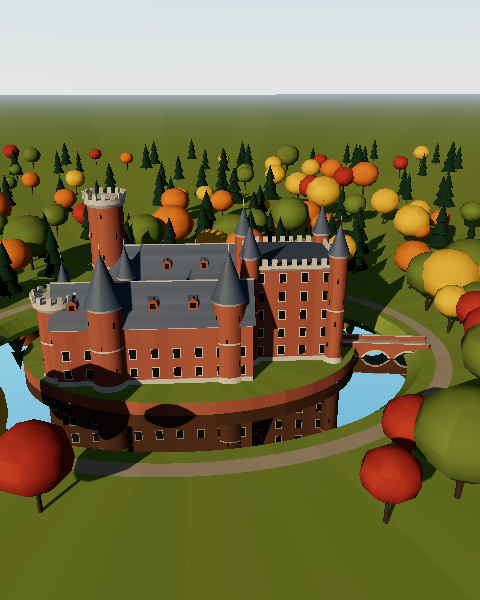
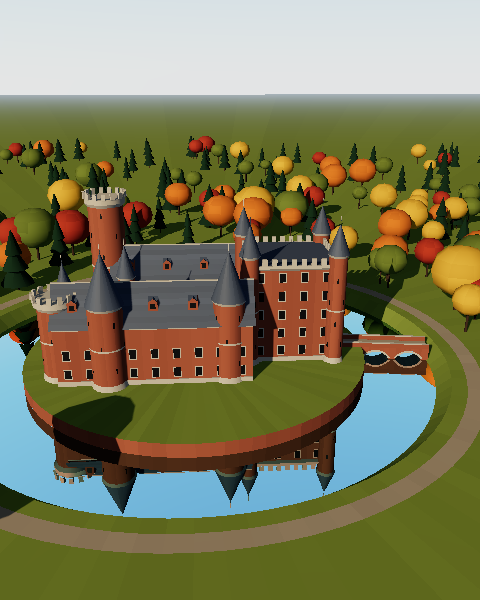
Use a round moat and the Uccle rain normals in the castle plan
Sources describe the medieval castle as round, with a circular moat
around a round inner courtyard. The oval in the aerial photograph is
foreshortening, so the Wijnendale moat is now a circle of 46 m with a
round island of 33 m, and the images are rendered again.

The monthly rain of the moat's water balance is now the 1991-2020 normal
of the station at Uccle from the Royal Meteorological Institute, 837 mm a
year. The open water evaporation and the stream stay assumptions and are
marked as such.

Castle.md gains a sources section. It lists the documented facts with
links and says that no source reachable in the search gave a tower
height, a wall length or a moat size.

Claude-Session: https://claude.ai/code/session_01QjVVquVTVmgGajftDb4J89

diff --git a/docs/wiki/Castle.md b/docs/wiki/Castle.md
@@ -29,6 +29,7 @@ The plan states which facts are documented and which numbers are estimated. No p
 | Item | Value | Status |
 |---|---|---|
 | Place | Torhout, West Flanders, Belgium | Documented |
+| Moat and courtyard | A circular moat around a round inner courtyard | Documented |
 | Coordinates | 51°04′44″ N, 3°03′34″ E | Documented |
 | First castle | About 1085, built by Robert I, Count of Flanders | Documented |
 | North wing | Parts date from the 15th century | Documented |
@@ -39,7 +40,19 @@ The plan states which facts are documented and which numbers are estimated. No p
 | Stone dressings, dormers and window rows | From the aerial photograph | Estimated |
 | Dimensions of every part | From the aerial photograph, good to about 15 percent | Estimated |
 | Wall thickness, bridge arch, moat depth | Typical values for the building type | Estimated |
-| Wind, climate, soil and masonry strength | Typical values from the Eurocodes and the Flemish lowland | Assumed |
+| Monthly rain | The 1991-2020 normals of Uccle, 837 mm a year | Measured, at a station about 90 km away |
+| Wind, evaporation, soil and masonry strength | Typical values from the Eurocodes and the Flemish lowland | Assumed |
+
+## Sources and what is missing
+
+The documented facts come from these pages:
+
+- [Flemish heritage inventory, Kasteeldomein van Wijnendale](https://inventaris.onroerenderfgoed.be/erfgoedobjecten/87491) gives the work of Félix Laureys in 1877 and 1878, and the gatehouse and keep.
+- [Wijnendale Castle on Wikipedia](https://en.wikipedia.org/wiki/Wijnendale_Castle) gives the coordinates and the history.
+- [Eupedia](https://eupedia.com/belgium/wynendale.shtml) and [RTBF](https://www.rtbf.be/article/le-chateau-de-wijnendale-la-ou-leopold-iii-a-lance-la-question-royale-11329444) describe a circular moat.
+- [Brussels Environment, climate fact sheet](https://document.environnement.brussels/opac_css/elecfile/Clim_02) gives the Uccle rain normals of the Royal Meteorological Institute.
+
+No source that I could reach gives the height of a tower, the length of a wall or the size of the moat. I searched in Dutch, French and English. I could read only search summaries of these pages, not the pages themselves. The protection decree refers to a plan that I could not open. A survey or that plan would replace the estimates.
 
 ## The plan frame
 
@@ -51,7 +64,7 @@ A `CastlePlan` holds:
 |---|---|---|
 | Towers | `Tower` | A round or square shaft with a cone or a battlemented parapet |
 | Blocks | `Block` | A rectangle of wall with a gable roof, or a gatehouse with a parapet |
-| Moat | `Moat` | An ellipse of water around an elliptical island |
+| Moat | `Moat` | An ellipse of water around an elliptical island. A circle has equal axes. |
 | Bridge | `Bridge` | A row of equal segmental masonry arches on piers |
 
 `plan.check()` refuses a part that cannot stand. It refuses a wall as thick as its radius and a gable with no rise. It refuses an island outside the moat and a tower off the island. It refuses an arch that rises more than half its span.
@@ -69,7 +82,7 @@ A `CastlePlan` holds:
 | Rear range | Block | 30 by 9 | 11 | Gable, rise 7 |
 | Front range | Block | 34 by 9 | 11 | Gable, rise 6.5 |
 | Gatehouse | Block | 16 by 16 | 19 | Parapet |
-| Moat | Ellipse | Outer axes 43 and 33, island axes 33 and 23 | Water depth 1.6 | |
+| Moat | Circle | Outer radius 46, island radius 33 | Water depth 1.6 | |
 | Bridge | Three arches | Span 5, pier 1.4, rise 1.4, ring 0.4 | Length 20.6 | |
 
 ## Draw a plan

diff --git a/docs/wiki/Castle-analysis.md b/docs/wiki/Castle-analysis.md
@@ -75,14 +75,14 @@ A plain wall needs more than three meters. A real wall of this height has a batt
 
 The weir is a sharp-crested rectangular weir, `Q = Cd (2/3) sqrt(2 g) b h^1.5`. It answers within hours. A daily step therefore passes the surplus of a day over the weir. A deficit lowers the level below the crest.
 
-`flanders_climate` holds monthly values typical of the Flemish lowland: 824 mm of rain and 608 mm of open water evaporation a year. They are assumptions. Replace them with data from a weather station.
+`flanders_climate` holds monthly values for the Flemish lowland. The rain is the 1991-2020 normal of the station at Uccle from the Royal Meteorological Institute: 837 mm a year. The evaporation, 608 mm a year, and the stream flow are assumptions. Replace them with data from the site.
 
-| Result for a moat of 2,073 m2 | Value |
+| Result for a moat of 3,226 m2 | Value |
 |---|---|
 | Normal year | The level stays at the crest. 147,000 m3 go over the weir. |
 | Dry year, 60 percent of the rain, stream failed | The level falls 74 cm below the crest. |
-| Days with more than 10 cm of drawdown | 275 |
-| Stream flow that holds the level in July | 0.09 L/s |
+| Days with more than 10 cm of drawdown | 272 |
+| Stream flow that holds the level in July | 0.14 L/s |
 
 ## The sun
 
